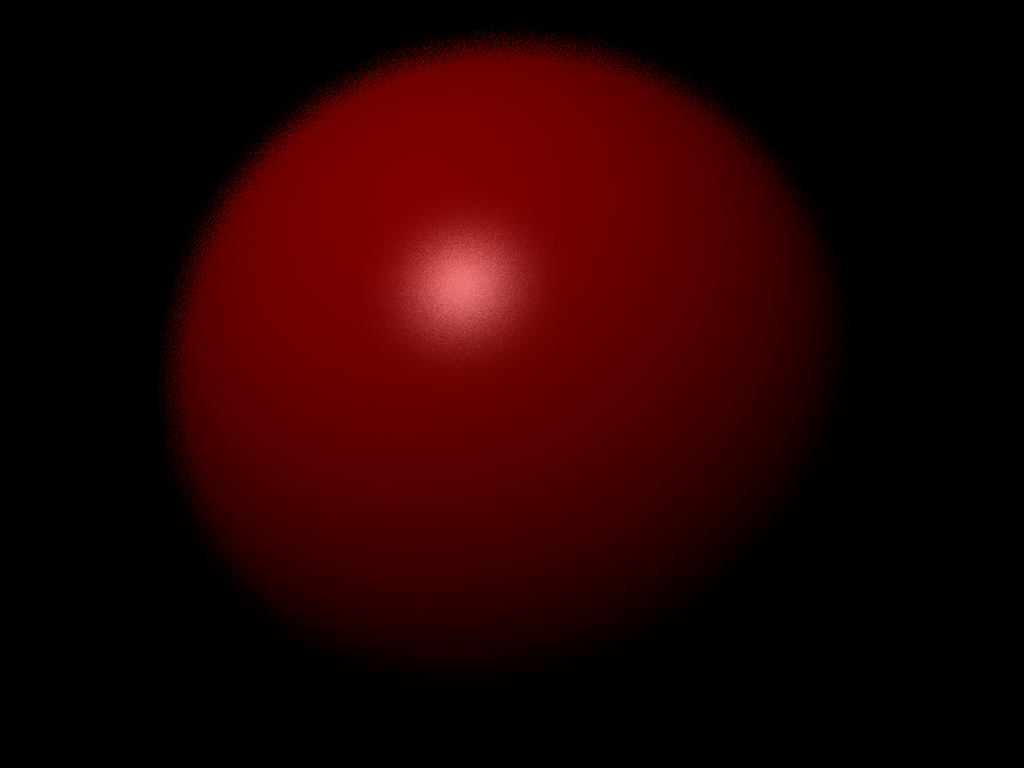
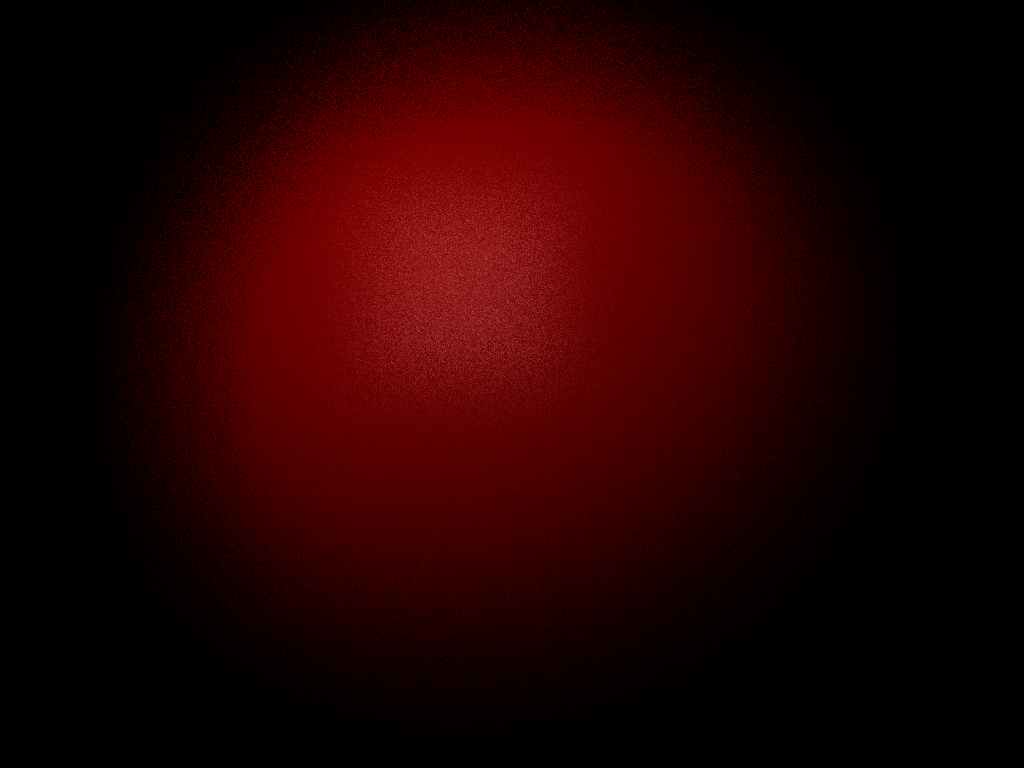
implementing orbits

Changed region(s): [[0.125, 0.0, 0.8125, 0.75], [0.375, 0.25, 0.5312, 0.5], [0.8125, 0.3125, 0.8438, 0.3438]]

diff --git a/src/raytracer/raytracer.cpp b/src/raytracer/raytracer.cpp
@@ -159,6 +159,23 @@ void RayTracer::render(RGBA *imageData, const RayTraceScene &scene) {
     }
 }
 
+
+float gaussianWeights(float radius, glm::vec4 newPos, glm::vec4 ogPos){
+    float weight;
+    float x = ogPos[0] - newPos[0];
+    float y = ogPos[1] - newPos[1];
+    float z = ogPos[2] - newPos[2];
+
+    float sigma = radius/ 3.f;
+    float a = sqrt(pow(x,2) + pow(y,2)) /*+ pow(z,2)*/;
+    float power = -a / (2 * pow(sigma, 2));
+    auto denom = sqrt(2 * M_PI * pow(sigma, 2));
+
+    weight = 1/pow(a,2)/*(1/denom) * exp(power)*/;
+    return weight;
+}
+
+
 /*!
     @param:
     *RayTracer::Ray primaryRay: The main ray around which other rays will be generated
@@ -188,21 +205,27 @@ RGBA RayTracer::lensMaker(RayTracer::Ray  primaryRay, bool doPrint,RayTraceScene
         float newX = -0.5f + static_cast <float> (rand()) /( static_cast <float> (RAND_MAX/(0.5f-(-0.5f))));
         float newY = -0.5f + static_cast <float> (rand()) /( static_cast <float> (RAND_MAX/(0.5f-(-0.5f))));
         float newZ = -0.5f + static_cast <float> (rand()) /( static_cast <float> (RAND_MAX/(0.5f-(-0.5f))));
+        float radius = 0.5f * m_config.apperture;
+
+
 
         glm::vec4 offsetPos(newX, newY, newZ, primaryRay.pos[3]);
 
         glm::vec3 newPosT = glm::vec3(primaryRay.pos) + m_config.apperture * glm::vec3(offsetPos);
         glm::vec4 newPos(newPosT, primaryRay.pos[3]);
-
         glm::vec4 newDir = glm::normalize(focalPoint - newPos);
+
+        float weight = 1.f;
+        //weight = gaussianWeights(radius, newPos, primaryRay.pos);
 
         Ray newRay{newPos, newDir};
 
-        RGBA update = scene.getUpdatedPixel(newRay, doPrint, scene, count, textureMap);
 
-        redAcc = update.r + redAcc;
-        greenAcc = update.g + greenAcc ;
-        blueAcc = update.b + blueAcc;
+        RGBA update = scene.getUpdatedPixel(newRay, doPrint, scene, count, textureMap);
+       // std::cout<< weight << std::endl;
+        redAcc =   (weight * update.r)+ redAcc;
+        greenAcc = (weight * update.g)+ greenAcc ;
+        blueAcc =  (weight *  update.b) + blueAcc;
 
 
 

diff --git a/src/raytracer/raytracescene.cpp b/src/raytracer/raytracescene.cpp
@@ -103,6 +103,10 @@ RGBA toRGBA(const glm::vec4 &illumination) {
     return RGBA{r, g, b};
 }
 
+glm::mat4 translator(float dx, float dy, float dz){
+    return glm::mat4(1, 0, 0, 0, 0, 1, 0, 0, 0, 0, 1, 0, dx, dy, dz, 1);
+}
+
 
 /*!
     @param:
@@ -132,7 +136,11 @@ glm::vec4 RayTraceScene::traceRay(RayTracer::Ray  worldRay, bool doPrint,RayTrac
 
     //MAIN SHAPE LOOP
     for(int i = 0; i < MetaData.shapes.size(); i++){
-        glm::mat4 p = glm::inverse(MetaData.shapes[i].ctm);// Coord transformation
+        RenderShapeData r = MetaData.shapes[i];
+        glm::mat4 o = translator(0.f,0.f,0.2f) * r.ctm;
+        glm::mat4 p = glm::inverse(o);// Coord transformation
+
+        //glm::mat4 p = glm::inverse(MetaData.shapes[i].ctm);// Coord transformation
         RayTracer::Ray objectRay = convertRaySpace(worldRay, p);
 
         RayTracer::intersectInfo intInf = RayTraceScene::getIntersection(MetaData.shapes[i], objectRay);

diff --git a/src/raytracer/raytracer.h b/src/raytracer/raytracer.h
@@ -16,7 +16,7 @@ class RayTracer
 public:
 
     bool dofEnable = true;
-    int sample = 6;
+    int sample = 9;
 
     struct Config {
         bool enableShadow        = false;
@@ -29,8 +29,8 @@ public:
         bool enableAcceleration  = false;
         bool enableDepthOfField  = false;
         int maxRecursiveDepth    = 4;
-        float apperture = 0.161f;
-        float focalLength = 3.f; //13.f for larger scene
+        float apperture = 0.0001f;
+        float focalLength = 13.f; //13.f for larger scene
         float planeZ = 1.f;
         bool onlyRenderNormals   = false;
     };
